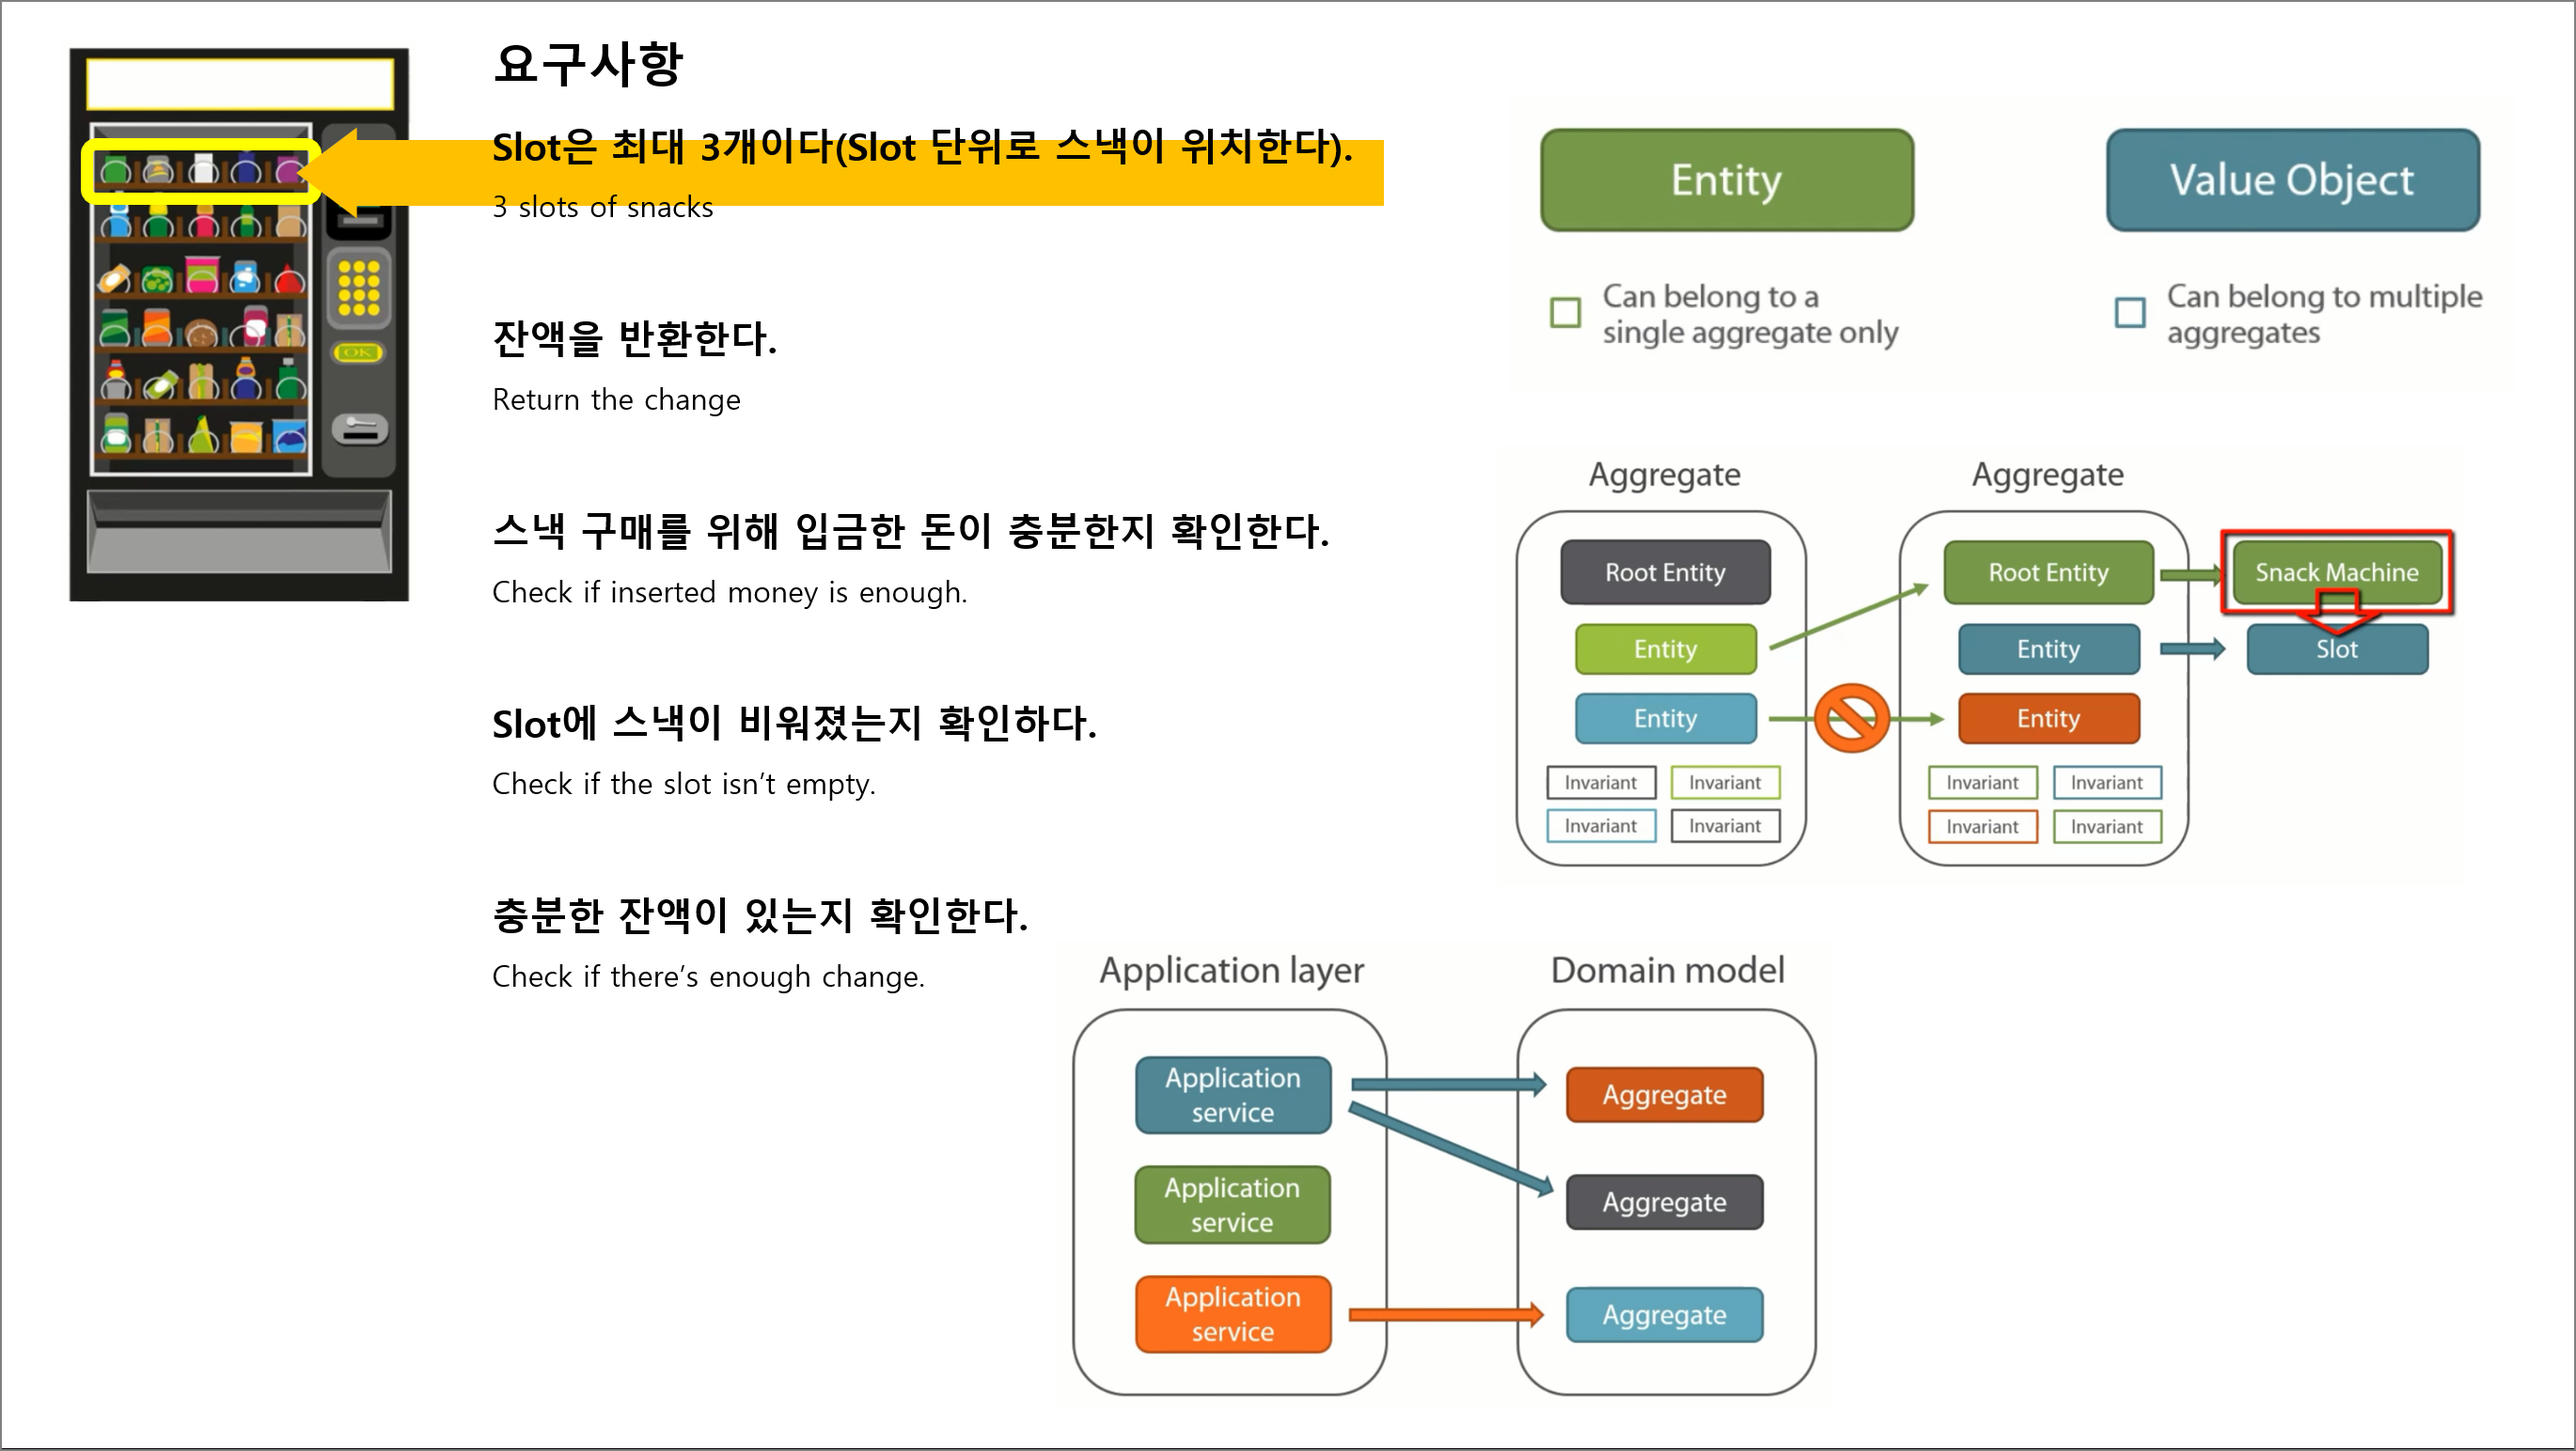
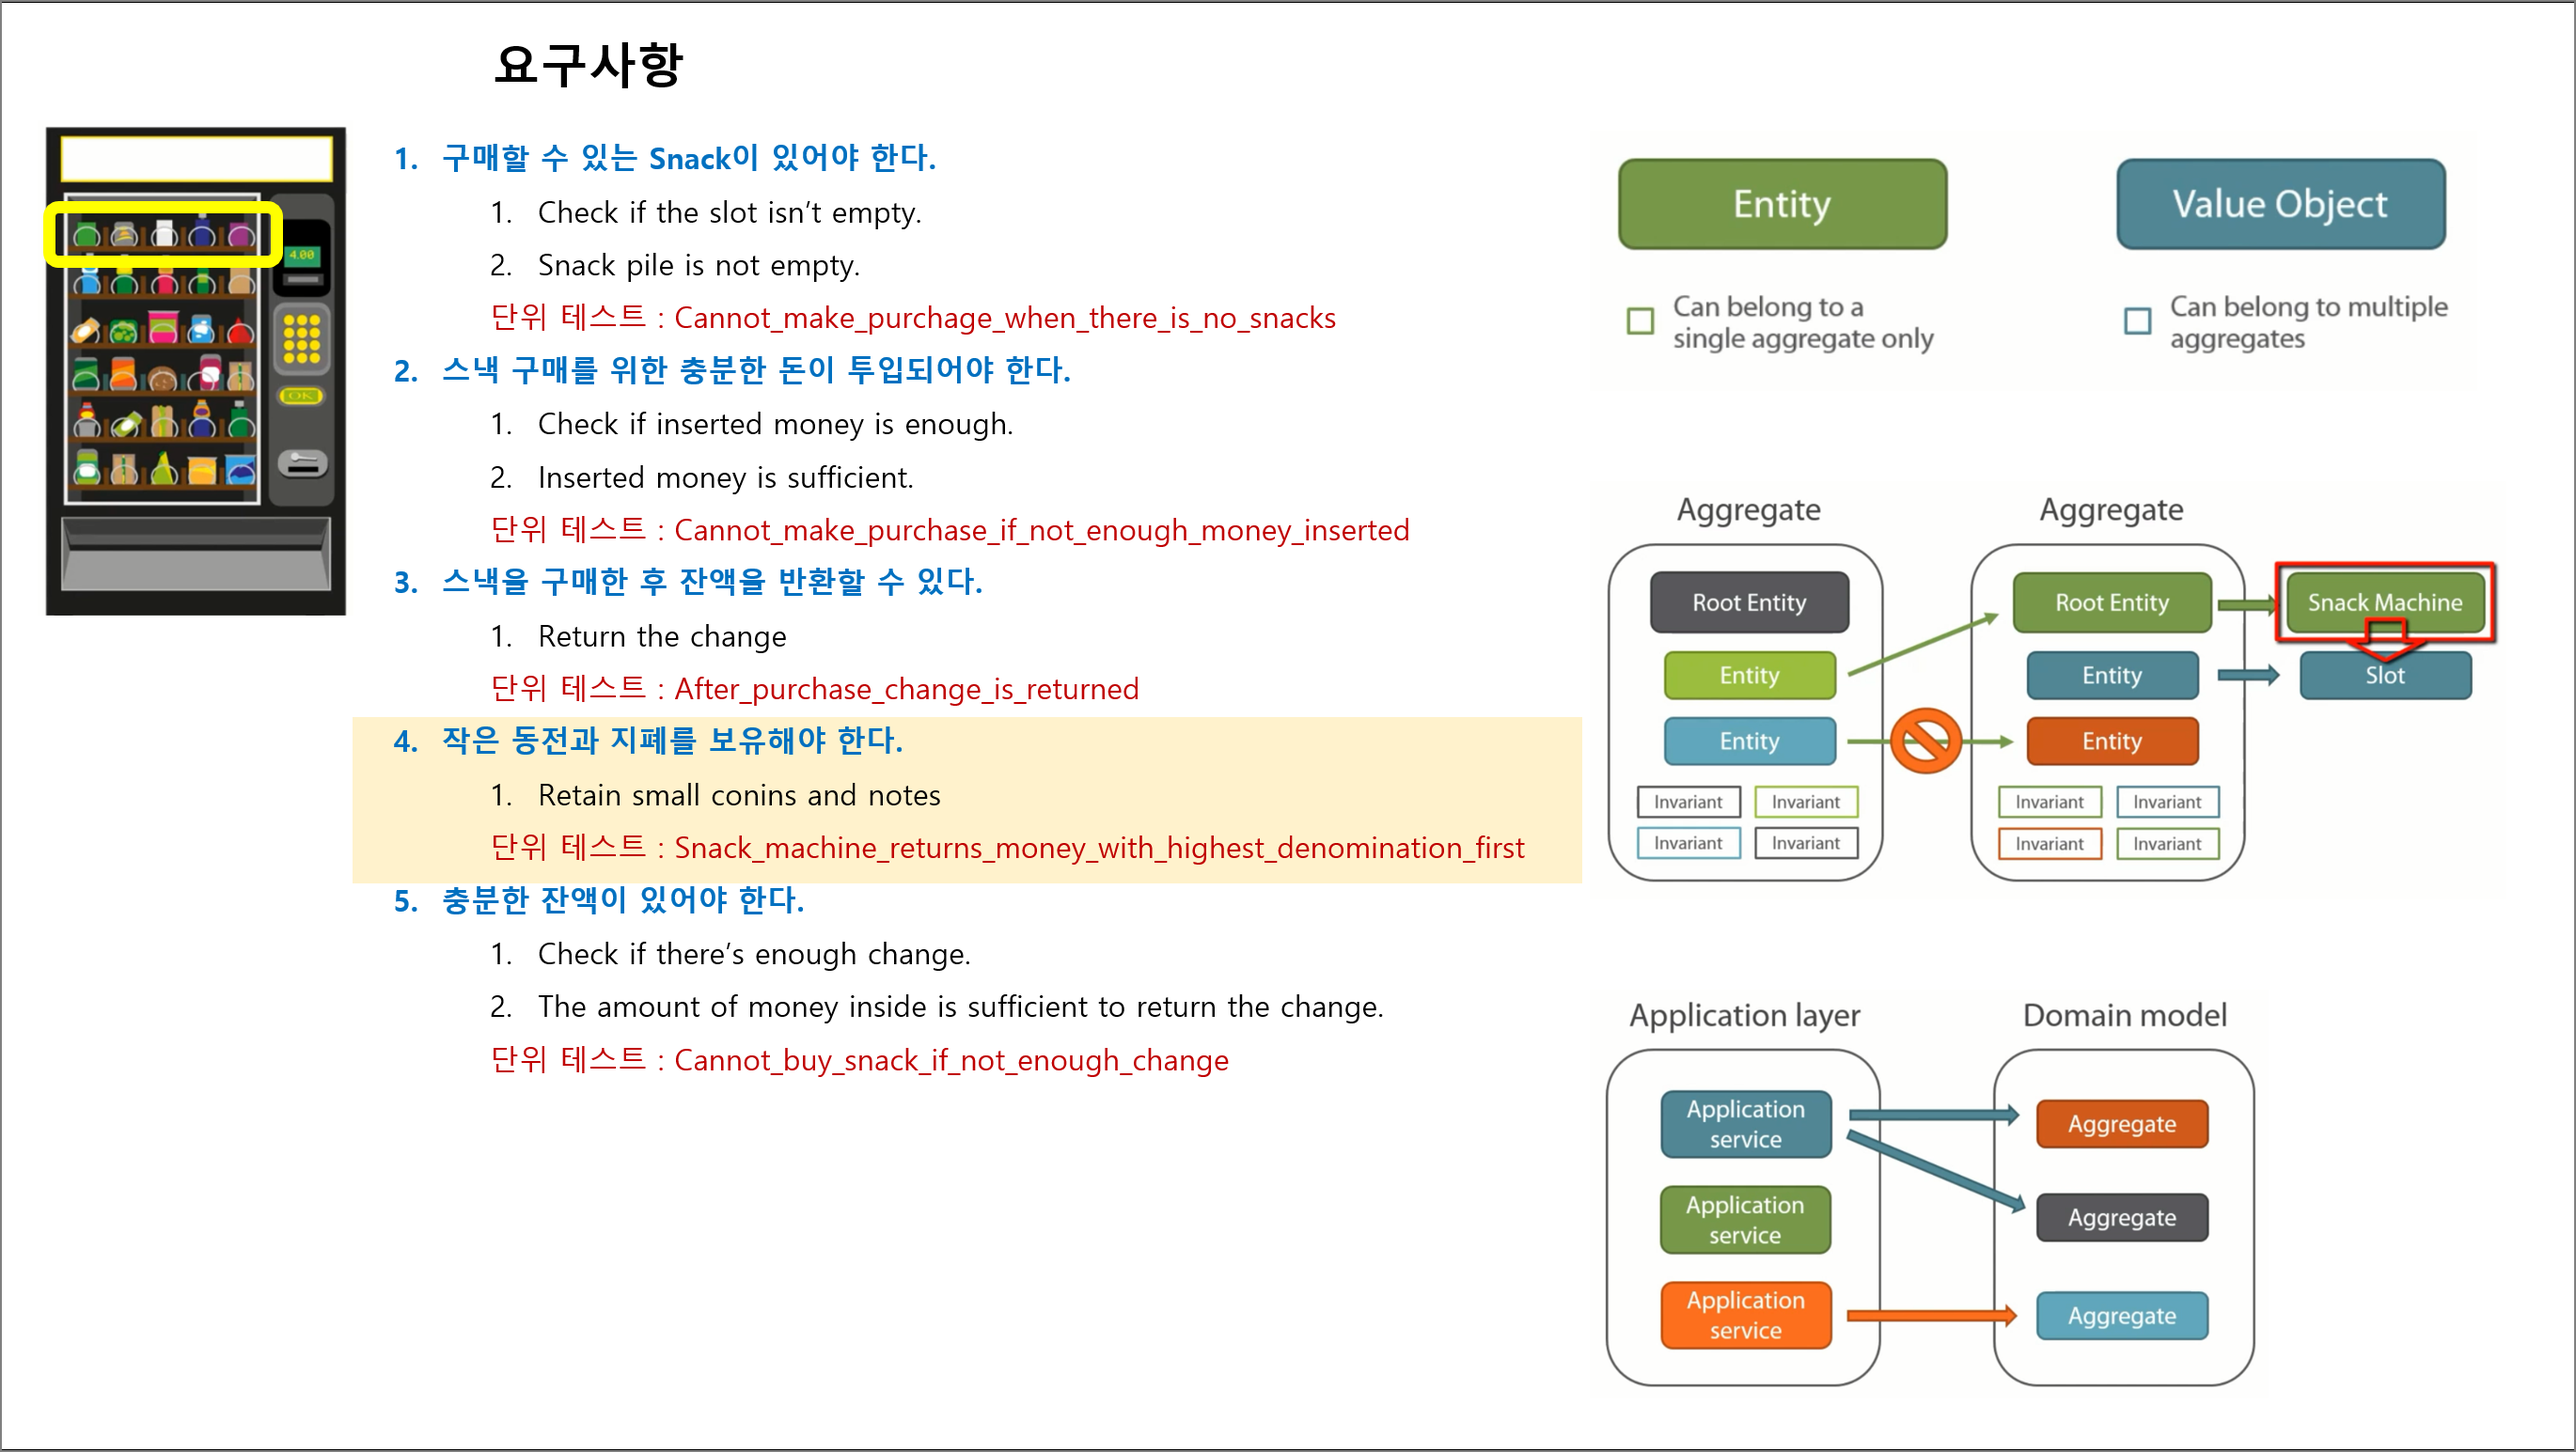
요약 이미지 업데이트

diff --git a/DDD/DddInPractice/Ch04/README.md b/DDD/DddInPractice/Ch04/README.md
@@ -9,6 +9,7 @@
 
 ## 1. 요약
 ![](./Ch04_Summary1.png)
+![](./Ch04_Summary2.png)
 
 <br/>
 
@@ -18,7 +19,7 @@
 
 <br/>
 
-## 4. 개발
+## 3. 개발
 
 ### Step 1. Aggregate Root
 1. 요구사항 구현
@@ -28,18 +29,18 @@
    - ~~`Money_in_transaction_goes_to_money_inside_after_purchase`~~ -> `BuySnack_trades_inserted_money_for_a_snack`
 1. Aggregate Root 정의
    - 하나의 추상화 아래 여러 Entity을 모여 도메인 모델을 단순화시키는 디자인 패턴이다.
-     - 응집(Root Entity) 
+     - **Conceptual whole** : 응집(Root Entity) 
        - 개념적 전체이다.
        - Fully encapsulated aggregate
        - Biz.을 추상화한다 : New abstraction to resolve the awkwardness
-     - 유효성 검사(불변식?) 
-       - 여러 Entity가 생애 동안 유지해야하는 불변식을 가지고 있다.
-     - 접근(불변식 보호) : Root Entity을 통해서 자식 Entity을 접근해야 한다(Value Object는 불변 객체이기 때문에 노출 가능하다).
+     - **Root entity** : 접근(불변식 보호) 제한, Root Entity을 통해서 자식 Entity을 접근해야 한다(Value Object는 불변 객체이기 때문에 노출 가능하다).
        - 추상화가 더 필요할 때 : Entity의 개별 속성 접근을 위한 메서드를 정의한다.
        - 추상화 방법 : 새로운 Value Object 발굴을 고려해야 한다.
        - Entitiy을 노출하지 않는다 : Not exposing internal Slot entity
        - Value Object는 노출할 수 있다 : Exposing SnackPile value object instead
-     - 저장소 최소 단위(데이터 일관성 유지) 
+     - **Single operational unit for the application** : 불변식(유효성 검사) 
+       - 여러 Entity가 생애 동안 유지해야하는 불변식을 가지고 있다.
+     - **Consistency boundaries** : 저장소 최소 단위(데이터 일관성 유지) 
 1. Aggregate Root 선별 기준
    - Entity 수명(Lifespan)의 부모다.
    - 일관성(불변식, 트랜잭션)이 최소 단위다.

diff --git a/DDD/DddInPractice/README.md b/DDD/DddInPractice/README.md
@@ -5,6 +5,7 @@
 - [2장. Value Object vs. Entity](./Ch02)
 - [3장. UI & Persistence Layer](./Ch03)
 - [4장. Aggregate](./Ch04)
+- [5장. Repository](./Ch05)
 
 ## 요구사항
 - 스낵머신에 돈을 투입한다.
